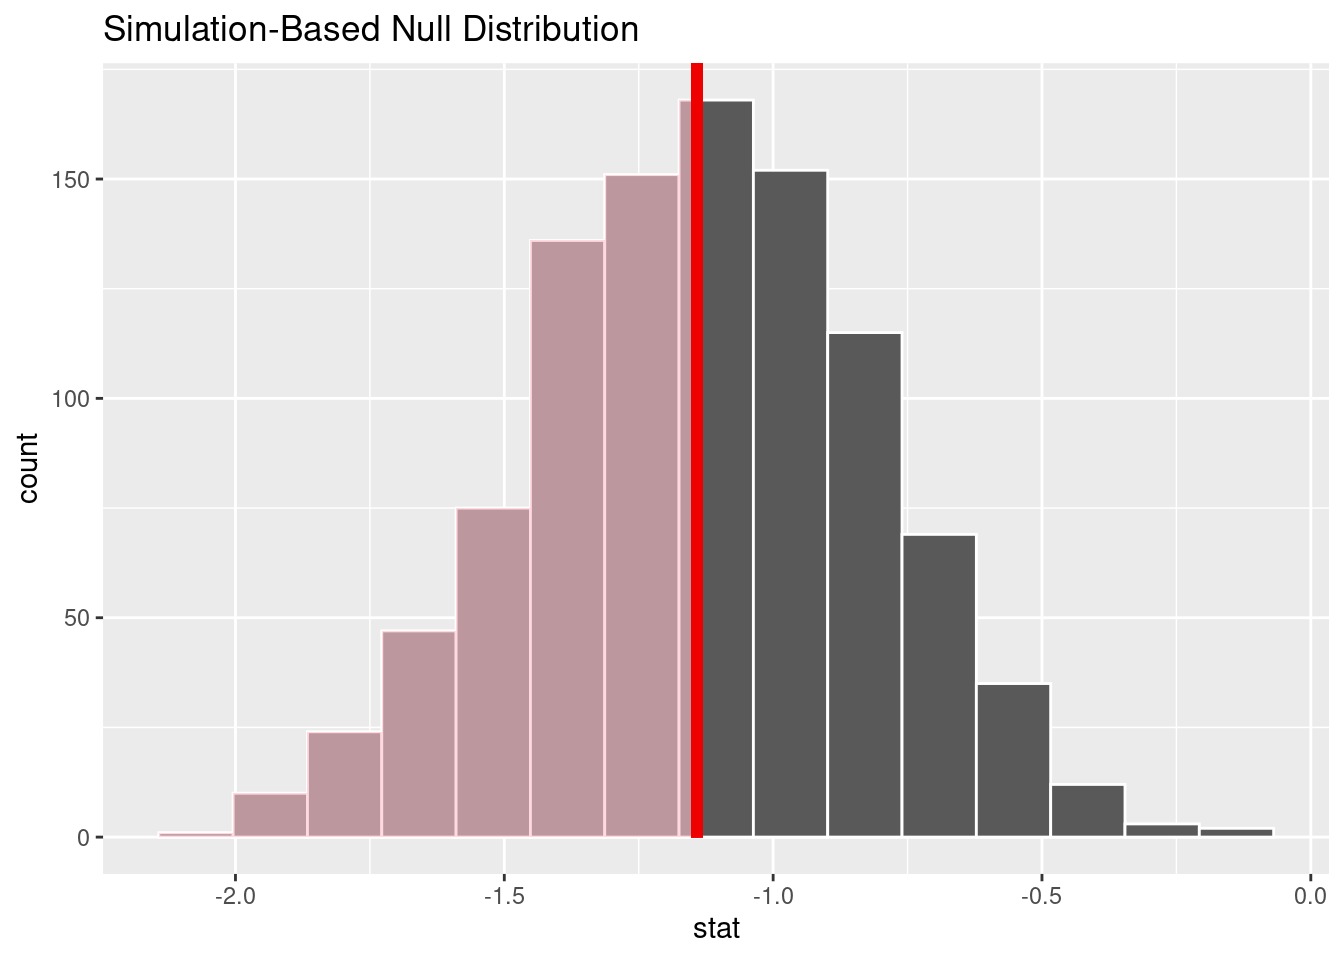
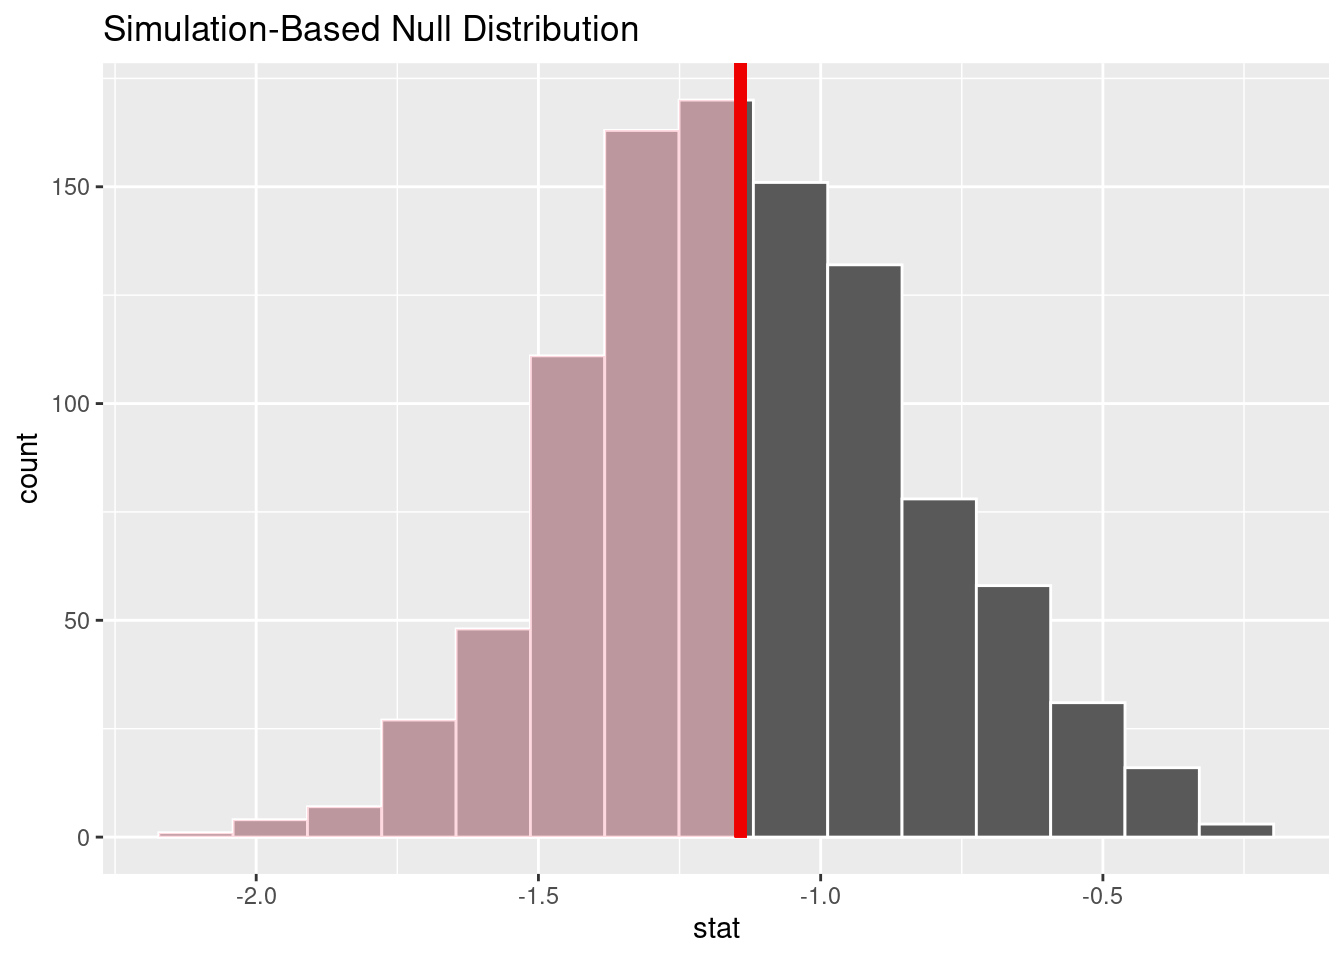
update

diff --git a/docs/report.html b/docs/report.html
@@ -257,7 +257,7 @@ code span.wa { color: #60a0b0; font-weight: bold; font-style: italic; } /* Warni
 ✖ dplyr::lag()      masks stats::lag()
 ✖ yardstick::spec() masks readr::spec()
 ✖ recipes::step()   masks stats::step()
-• Dig deeper into tidy modeling with R at https://www.tmwr.org</code></pre>
+• Search for functions across packages at https://www.tidymodels.org/find/</code></pre>
 </div>
 <div class="sourceCode cell-code" id="cb5"><pre class="sourceCode r code-with-copy"><code class="sourceCode r"><span id="cb5-1"><a href="#cb5-1" aria-hidden="true" tabindex="-1"></a><span class="fu">library</span>(dplyr)</span>
 <span id="cb5-2"><a href="#cb5-2" aria-hidden="true" tabindex="-1"></a></span>
@@ -545,11 +545,11 @@ H_0: \mu_{exclusive} &gt; \mu_{non-exclusive}
 <pre><code># A tibble: 5 × 3
   term           lower_ci upper_ci
   &lt;chr&gt;             &lt;dbl&gt;    &lt;dbl&gt;
-1 HuluYes           -1.88     2.07
-2 NetflixYes        -2.16     2.05
-3 disney_plusYes    -2.62     2.87
-4 intercept         45.1     49.2 
-5 prime_videoYes    -2.09     2.06</code></pre>
+1 HuluYes           -1.88     1.96
+2 NetflixYes        -1.96     1.91
+3 disney_plusYes    -2.87     2.62
+4 intercept         45.3     49.2 
+5 prime_videoYes    -2.03     1.96</code></pre>
 </div>
 <div class="sourceCode cell-code" id="cb26"><pre class="sourceCode r code-with-copy"><code class="sourceCode r"><span id="cb26-1"><a href="#cb26-1" aria-hidden="true" tabindex="-1"></a><span class="fu">get_p_value</span>(</span>
 <span id="cb26-2"><a href="#cb26-2" aria-hidden="true" tabindex="-1"></a>  <span class="at">x =</span> null_fits,</span>
@@ -569,7 +569,7 @@ approximation based on the number of `reps` chosen in the `generate()` step. See
 2 NetflixYes       1    
 3 disney_plusYes   1    
 4 intercept        0    
-5 prime_videoYes   0.454</code></pre>
+5 prime_videoYes   0.484</code></pre>
 </div>
 <div class="sourceCode cell-code" id="cb29"><pre class="sourceCode r code-with-copy"><code class="sourceCode r"><span id="cb29-1"><a href="#cb29-1" aria-hidden="true" tabindex="-1"></a><span class="fu">visualize</span>(null_fits) <span class="sc">+</span></span>
 <span id="cb29-2"><a href="#cb29-2" aria-hidden="true" tabindex="-1"></a>  <span class="fu">shade_p_value</span>(<span class="at">obs_stat =</span> observed_fit, <span class="at">direction=</span><span class="st">"two sided"</span>)</span></code><button title="Copy to Clipboard" class="code-copy-button"><i class="bi"></i></button></pre></div>
@@ -660,7 +660,7 @@ approximation based on the number of `reps` chosen in the `generate()` step. See
 <pre><code># A tibble: 1 × 2
   lower_ci upper_ci
      &lt;dbl&gt;    &lt;dbl&gt;
-1    -1.76   -0.515</code></pre>
+1    -1.68   -0.507</code></pre>
 </div>
 <div class="sourceCode cell-code" id="cb39"><pre class="sourceCode r code-with-copy"><code class="sourceCode r"><span id="cb39-1"><a href="#cb39-1" aria-hidden="true" tabindex="-1"></a><span class="fu">visualize</span>(null_fits1) <span class="sc">+</span></span>
 <span id="cb39-2"><a href="#cb39-2" aria-hidden="true" tabindex="-1"></a>  <span class="fu">shade_p_value</span>(<span class="at">obs_stat =</span> observed_fit1, <span class="at">direction=</span><span class="st">"less"</span>)</span></code><button title="Copy to Clipboard" class="code-copy-button"><i class="bi"></i></button></pre></div>

diff --git a/docs/eda.html b/docs/eda.html
@@ -252,7 +252,7 @@ code span.wa { color: #60a0b0; font-weight: bold; font-style: italic; } /* Warni
 ✖ dplyr::lag()      masks stats::lag()
 ✖ yardstick::spec() masks readr::spec()
 ✖ recipes::step()   masks stats::step()
-• Use suppressPackageStartupMessages() to eliminate package startup messages</code></pre>
+• Learn how to get started at https://www.tidymodels.org/start/</code></pre>
 </div>
 <div class="sourceCode cell-code" id="cb5"><pre class="sourceCode r code-with-copy"><code class="sourceCode r"><span id="cb5-1"><a href="#cb5-1" aria-hidden="true" tabindex="-1"></a><span class="fu">library</span>(dplyr)</span>
 <span id="cb5-2"><a href="#cb5-2" aria-hidden="true" tabindex="-1"></a></span>

diff --git a/docs/presentation.html b/docs/presentation.html
@@ -420,7 +420,7 @@ H_0: \mu_{exclusive} &lt; \mu_{non-exclusive}
 </div><div class="column">
 <p><strong>Alternate Hypothesis:</strong> The average Rotten Tomatoes score of exclusive shows is greater than the average Rotten Tomatoes score of non-exclusive shows across all four platforms.</p>
 <p><span class="math display">\[
-H_0: \mu_{exclusive} &gt; \mu_{non-exclusive}
+H_A: \mu_{exclusive} &gt; \mu_{non-exclusive}
 \]</span></p>
 </div>
 </div>
